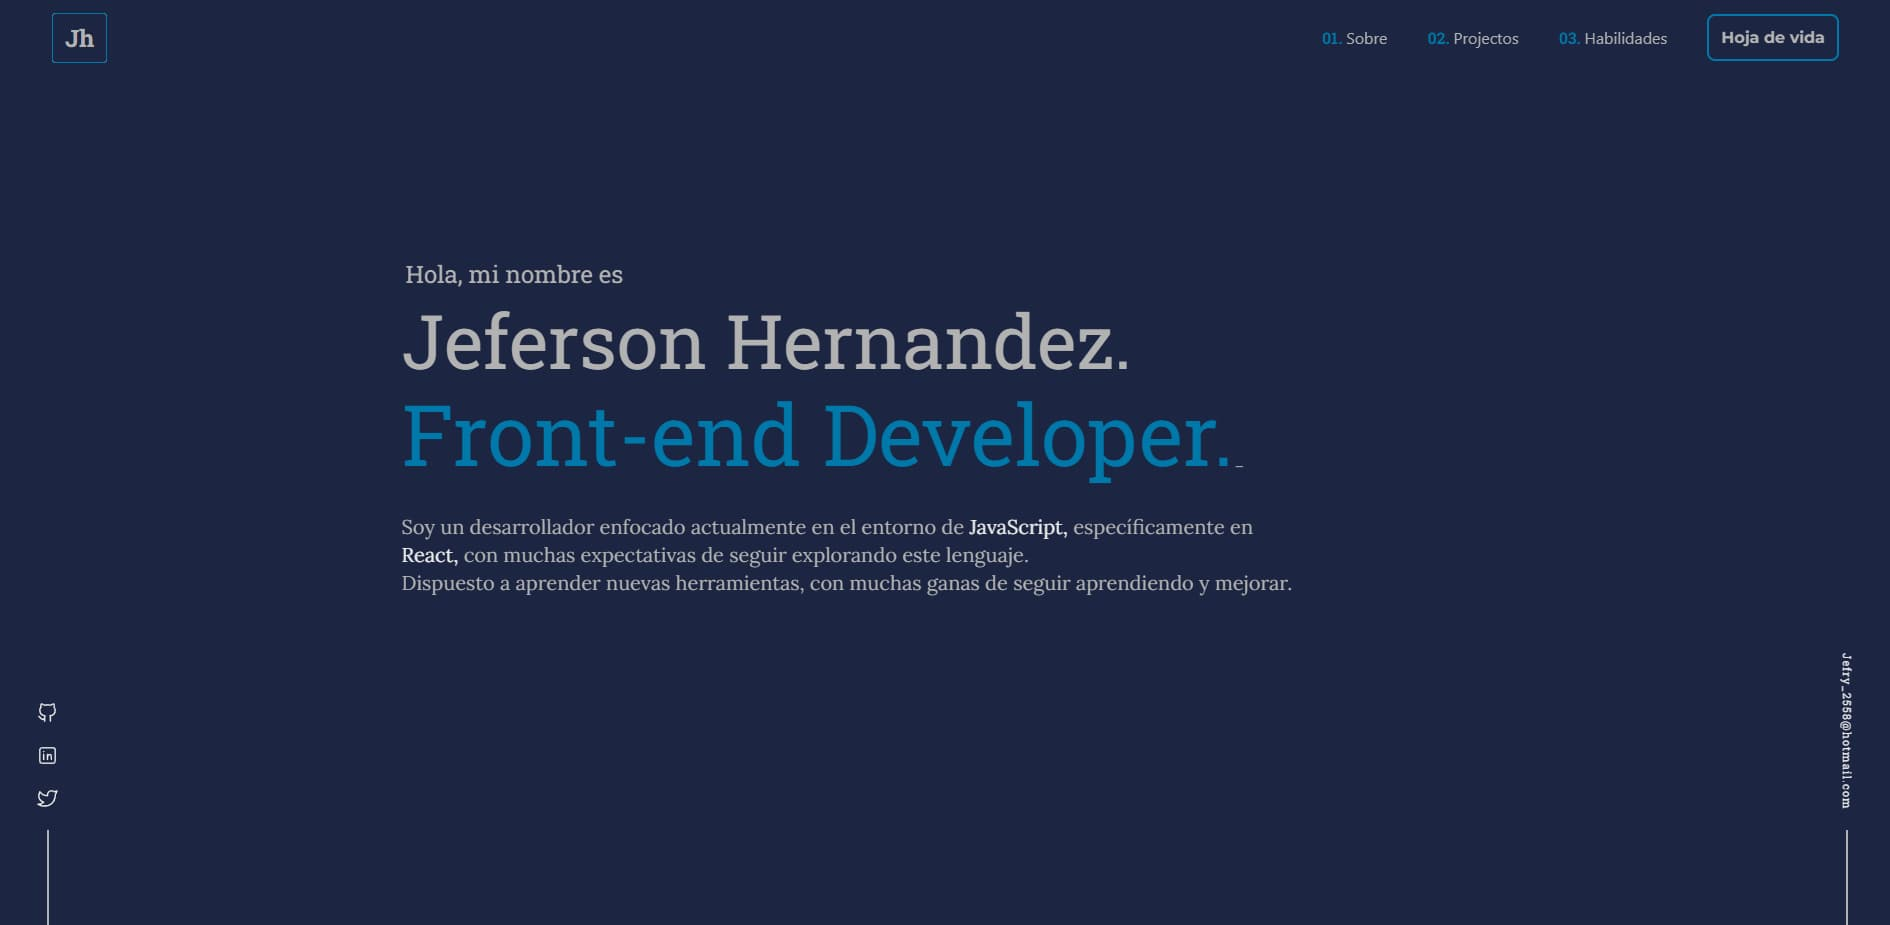
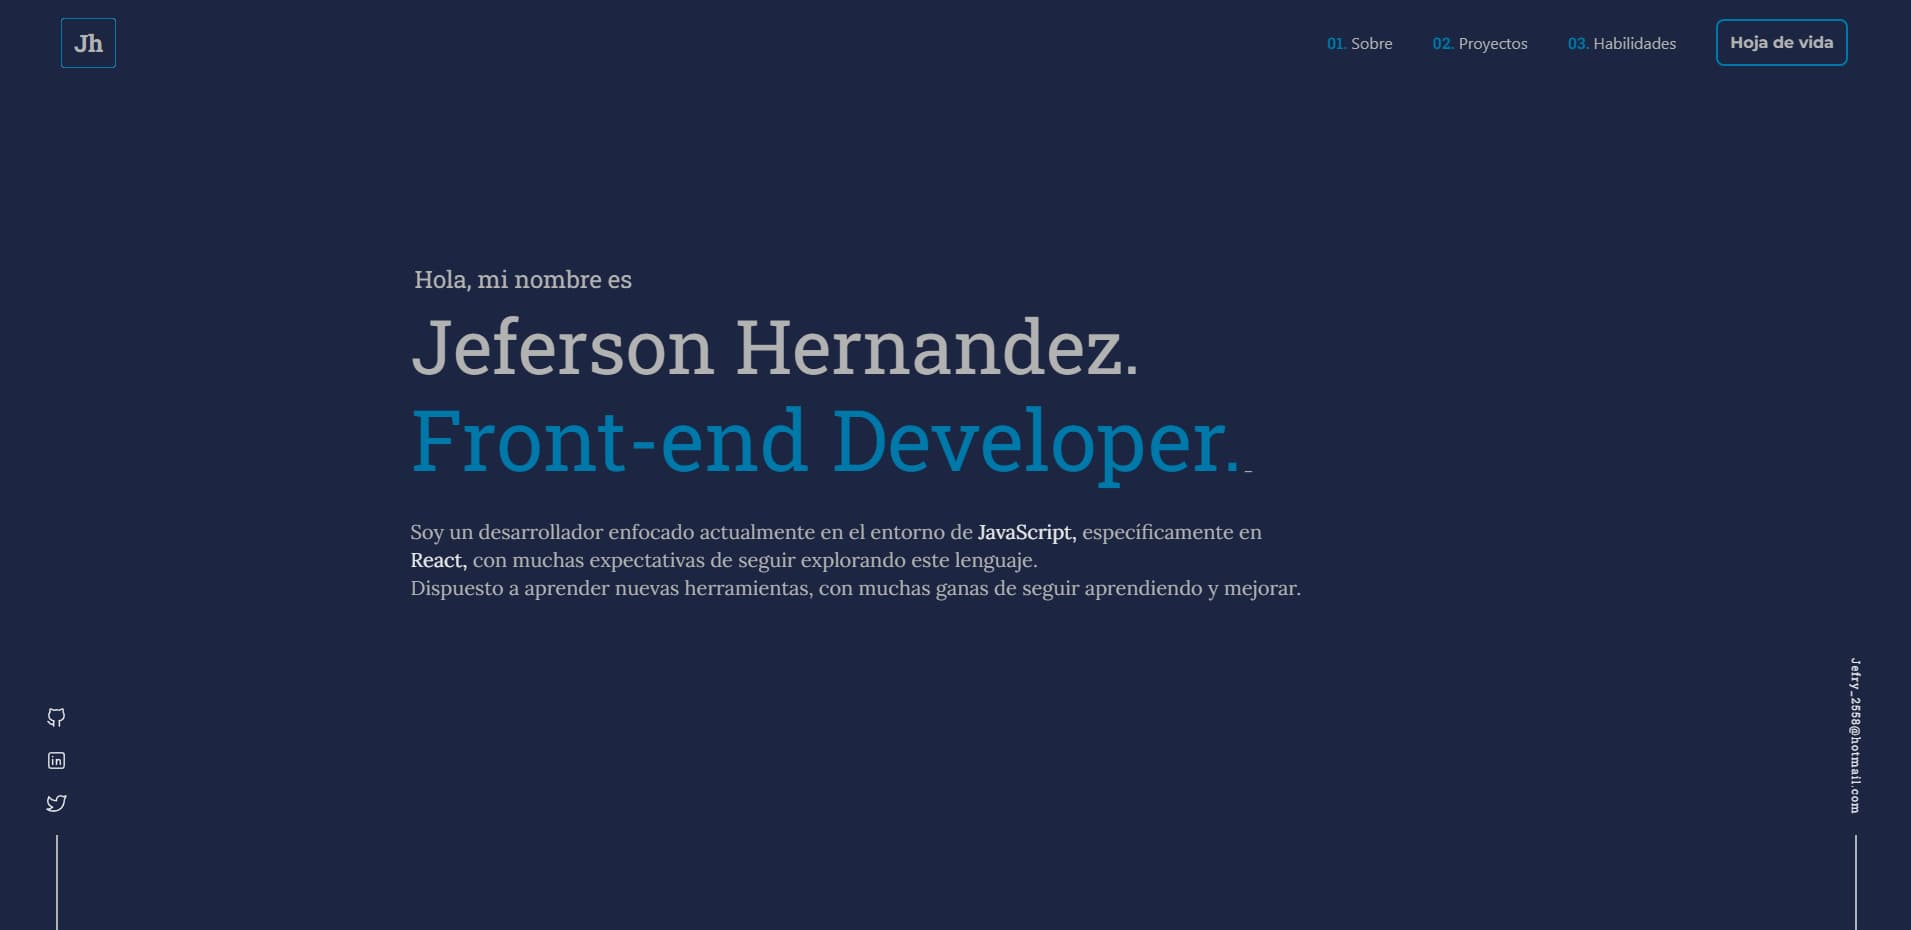
readme

diff --git a/src/components/NavBar.jsx b/src/components/NavBar.jsx
@@ -61,7 +61,7 @@ export const NavBar = () => {
 
         <ul className="hidden md:flex flex-row space-x-10 text-xs">
           <NavItem name={"sobre"} index={1} />
-          <NavItem name={"projectos"} index={2} />
+          <NavItem name={"proyectos"} index={2} />
           <NavItem name={"habilidades"} index={3} />
           <NavItem name={"Hoja de vida"} index={4} button={true} />
         </ul>
@@ -77,7 +77,7 @@ export const NavBar = () => {
             >
               <ul className="flex flex-col h-full bg-darkBlue items-center justify-center space-y-10 text-base">
                 <NavItem name={"sobre"} index={1} aside />
-                <NavItem name={"projectos"} index={2} aside />
+                <NavItem name={"proyectos"} index={2} aside />
                 <NavItem name={"habilidades"} index={3} aside />
                 <NavItem name={"Hoja de vida"} index={4} aside button={true} />
               </ul>
